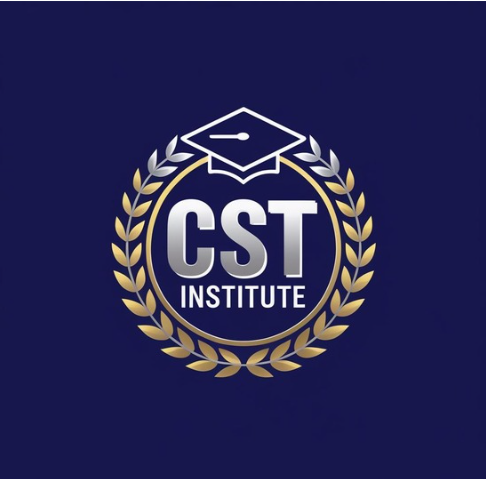
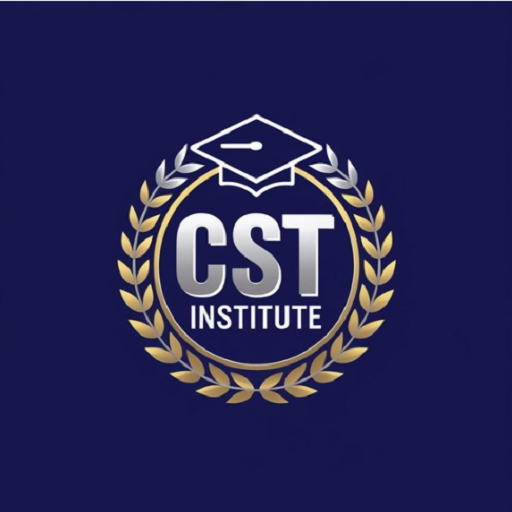
Add files via upload

diff --git a/static/student_exam_client.html b/static/student_exam_client.html
@@ -8,7 +8,10 @@
     <!-- PWA Links -->
     <link rel="manifest" href="/manifest.json">
     <meta name="theme-color" content="#2563eb">
-    <link rel="apple-touch-icon" href="https://cdn-icons-png.flaticon.com/512/2995/2995620.png">
+    
+    <!-- APP ICONS: Updated to use your uploaded local file -->
+    <link rel="apple-touch-icon" href="/static/icon.png">
+    <link rel="icon" type="image/png" href="/static/icon.png">
     
     <script src="https://cdn.tailwindcss.com"></script>
     <style>
